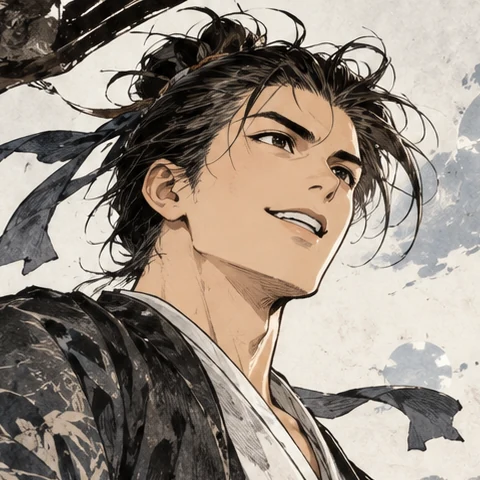
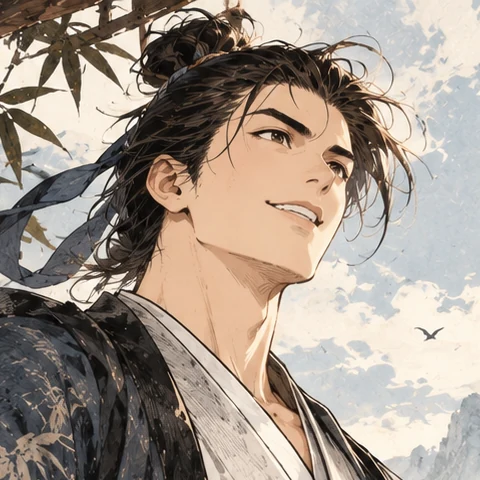
fix: maximize six hero portraits on black and replace Su Shi art

diff --git a/src/game/HeroPortraitDialog.ts b/src/game/HeroPortraitDialog.ts
@@ -1,18 +1,29 @@
+import './HeroPortraitDialog.css';
 import type {CharacterId} from './characters';
 import {characterForNewRun} from './CharacterRunCopy';
 import type {DetailDialog} from './DetailDialog';
 import {portraitURL,selectionPortraitURL} from './portraits';
+import {characterArt} from './CharacterArt';
 
 /** Full composition stays separate from the phone's enlarged, top-aligned preview. */
 export function showHeroPortrait(dialog:DetailDialog,id:CharacterId):void {
  const hero=characterForNewRun(id);
+ // Pointer actions on the Phaser canvas do not always establish a DOM focus owner.
+ if(document.activeElement===document.body)document.querySelector('canvas')?.focus({preventScroll:true});
  const d=dialog.open(hero.name,'',[],{closeLabel:'回到选角',portrait:{url:portraitURL(id),thumbnailUrl:selectionPortraitURL(id),alt:hero.name}});
  d.classList.add('hero-portrait-view');d.dataset.hero=id;
- const style=document.createElement('style');
- style.textContent=`.hero-portrait-view[open]{width:min(860px,calc(100vw - var(--safe-left) - var(--safe-right) - 24px));height:calc(100dvh - var(--safe-top) - var(--safe-bottom) - 24px);max-height:1000px}
- .hero-portrait-view .dialog-content{display:flex;min-height:0;justify-content:center;overflow:auto;padding:8px}
- .hero-portrait-view .dialog-portrait-art{margin:0;width:min(100%,615px);max-width:100%;height:100%;max-height:768px;aspect-ratio:auto;display:flex;flex-direction:column;align-items:center;min-height:0}
- .hero-portrait-view .dialog-portrait{width:auto;height:100%;max-height:100%;max-width:100%;object-fit:contain;flex:1;min-height:0}
- .hero-portrait-view .dialog-copy{display:none}.hero-portrait-view .dialog-header{padding:10px 16px}.hero-portrait-view h2{font-size:22px}`;
- d.append(style);
+ const art=characterArt(id,'portrait');if(art)d.style.setProperty('--hero-portrait-ratio',String(art.width/art.height));
+ const controls=document.createElement('div'),close=d.querySelector<HTMLButtonElement>('.dialog-close')!;
+ controls.className='hero-portrait-controls';close.textContent='×';close.setAttribute('aria-label','关闭立绘，回到选角');controls.append(close);
+ d.querySelector('.dialog-header')?.replaceWith(controls);d.querySelector('.dialog-actions')?.remove();
+ // Preserve the shared loader/retry nodes, while removing the empty explanation column.
+ const scroll=d.querySelector('.dialog-scroll')!;scroll.querySelector('.dialog-copy')?.remove();
+ d.querySelector('.dialog-portrait-art')!.append(...scroll.childNodes);scroll.remove();
+ d.addEventListener('keydown',event=>{
+  if(event.key!=='Tab')return;
+  const buttons=[...d.querySelectorAll<HTMLButtonElement>('button:not(:disabled)')].filter(b=>b.getClientRects().length);
+  const first=buttons[0],last=buttons.at(-1);
+  if(event.shiftKey?document.activeElement===first:document.activeElement===last){event.preventDefault();(event.shiftKey?last:first)?.focus();}
+ });
+ d.setAttribute('aria-label',hero.name+' · 全图');close.focus({preventScroll:true});
 }

diff --git a/src/game/HeroPortraitDialog.css b/src/game/HeroPortraitDialog.css
@@ -1,0 +1,35 @@
+.detail-dialog.hero-portrait-view[open] {
+ --hero-art-height:calc(100dvh - var(--safe-top) - var(--safe-bottom) - 56px);
+ inset:0;margin:0;width:100vw;height:100dvh;max-width:none;max-height:none;
+ padding:var(--safe-top) var(--safe-right) var(--safe-bottom) var(--safe-left);
+ display:grid;grid-template-rows:56px minmax(0,1fr);overflow:hidden;
+ border:0;border-radius:0;background:#000;color:#fff;box-shadow:none;
+}
+.hero-portrait-view::backdrop { background:#000; }
+.hero-portrait-controls { display:flex;justify-content:flex-end;align-items:center;padding:4px 8px; }
+.hero-portrait-controls .dialog-close {
+ flex:none;width:48px;height:48px;min-height:48px;padding:0;border:0;border-radius:50%;
+ background:#1b1b1b;color:#fff;font:32px/1 sans-serif;box-shadow:none;text-shadow:none;
+}
+.hero-portrait-controls .dialog-close:focus-visible { outline:2px solid #fff;outline-offset:2px; }
+.detail-dialog.hero-portrait-view > .dialog-content {
+ display:flex;justify-content:center;align-items:center;min-width:0;min-height:0;
+ padding:0;gap:0;overflow:auto;background:#000;
+}
+.hero-portrait-view .dialog-portrait-art {
+ display:flex;flex-direction:column;align-items:center;justify-content:center;
+ width:100%;height:100%;min-width:0;min-height:0;max-height:none;margin:0;
+ aspect-ratio:auto;border:0;border-radius:0;background:#000;
+}
+.hero-portrait-view .dialog-portrait-art .dialog-portrait {
+ display:block;flex:0 1 auto;width:min(100%,calc(var(--hero-art-height) * var(--hero-portrait-ratio,.8)));height:auto;max-width:100%;max-height:100%;min-height:0;
+ object-fit:contain;border:0;border-radius:0;background:transparent;box-shadow:none;
+}
+.hero-portrait-view .dialog-portrait[hidden] { display:none; }
+.hero-portrait-view .detail-art-status { flex:none;margin:4px 8px;color:#fff; }
+.hero-portrait-view .detail-art-retry { flex:none;margin:4px 8px; }
+@media (orientation:landscape) {
+ .detail-dialog.hero-portrait-view[open] { --hero-art-height:calc(100dvh - var(--safe-top) - var(--safe-bottom));grid-template-columns:minmax(0,1fr) 64px;grid-template-rows:minmax(0,1fr); }
+ .hero-portrait-controls { grid-column:2;grid-row:1;align-self:start; }
+ .detail-dialog.hero-portrait-view > .dialog-content { grid-column:1;grid-row:1; }
+}

diff --git a/tests/character-art.test.ts b/tests/character-art.test.ts
@@ -8,6 +8,9 @@ const register=()=>{catalog.splice(0);const a:CharacterArtAsset={id:'amo',purpos
 it('all six identities resolve approved assets, with optional focus outside the startup faces',()=>{
  expect(catalog).toHaveLength(24);for(const c of CHARACTERS)for(const p of ['avatar','selection','portrait','focus'] as const){const a=characterArt(c.id,p)!;expect(a).toBeDefined();expect(a.url).toContain('/assets/tangsong-portraits/');expect(a.bytes).toBeLessThanOrEqual(128*1024);expect(a.width*a.height).toBeLessThanOrEqual(600000);expect(characterArtKey(c.id,p)).toContain(c.id);}
 });
+it('every derived hero image uses its own content hash to invalidate replaced artwork',()=>{
+ for(const asset of approved)expect(new URL(asset.url,'https://game.example').searchParams.get('v')).toBe(asset.sha256.slice(0,12));
+});
 it('unregistered hero keys cannot fetch an empty image, deleted placeholder or archived old face',async()=>{
  const fetch=vi.fn();vi.stubGlobal('fetch',fetch);const {loadArtTexture}=await import('../src/game/ArtTextureLoading');
  for(const url of ['', '/assets/cast-placeholders/amo.portrait.svg','/assets/handdrawn-p08/characters/amo.portrait.webp'])await expect(loadArtTexture({textures:{exists:()=>false}} as never,characterArtKey('amo','portrait'),url,new AbortController().signal)).rejects.toThrow('character-art-reference');expect(fetch).not.toHaveBeenCalled();

diff --git a/src/game/CharacterArt.ts b/src/game/CharacterArt.ts
@@ -5,7 +5,7 @@ export type CharacterArtPurpose='avatar'|'selection'|'portrait'|'focus';
 export interface CharacterArtAsset {id:CharacterId;purpose:CharacterArtPurpose;key:string;path:string;url:string;width:number;height:number;bytes:number;sha256:string;format:string}
 const prefixes={avatar:'avatar-',selection:'selection-portrait-',portrait:'opening-portrait-',focus:'portrait-focus-'};
 /** Derived only from the six approved originals. Focus is a portrait head crop, not separate eye artwork. */
-export const CHARACTER_ART:readonly CharacterArtAsset[]=manifest.assets.map(a=>({...a,id:a.id as CharacterId,purpose:a.purpose as CharacterArtPurpose,url:assetUrl(a.path)}));
+export const CHARACTER_ART:readonly CharacterArtAsset[]=manifest.assets.map(a=>({...a,id:a.id as CharacterId,purpose:a.purpose as CharacterArtPurpose,url:assetUrl(a.path)+'?v='+a.sha256.slice(0,12)}));
 export const characterArtKey=(id:CharacterId,purpose:CharacterArtPurpose)=>prefixes[purpose]+id;
 export const characterArt=(id:CharacterId,purpose:CharacterArtPurpose)=>CHARACTER_ART.find(a=>a.id===id&&a.purpose===purpose);
 const absoluteURL=(url:string)=>new URL(url,typeof document==='undefined'?'https://local.invalid/':document.baseURI||'https://local.invalid/').href;
